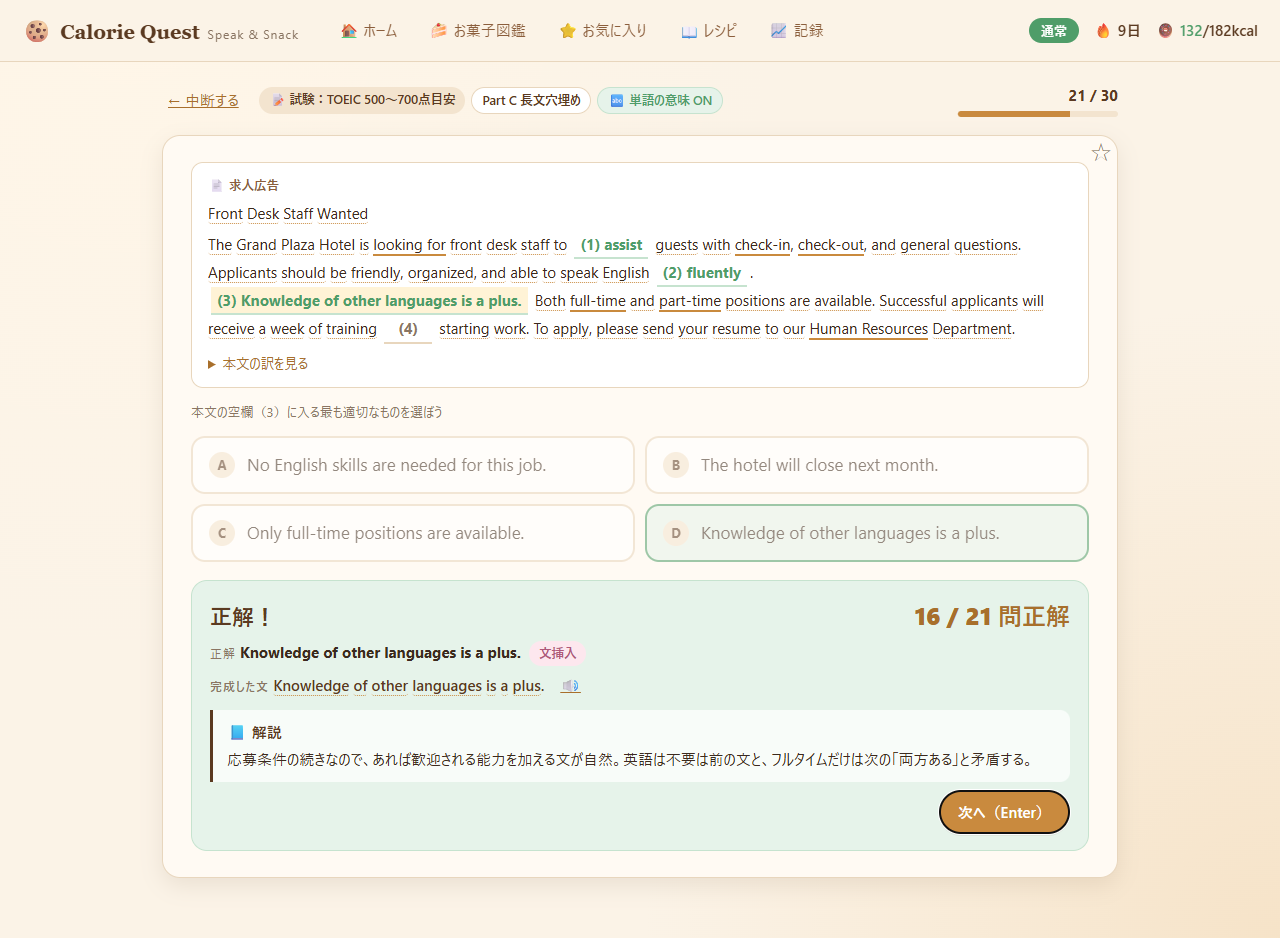
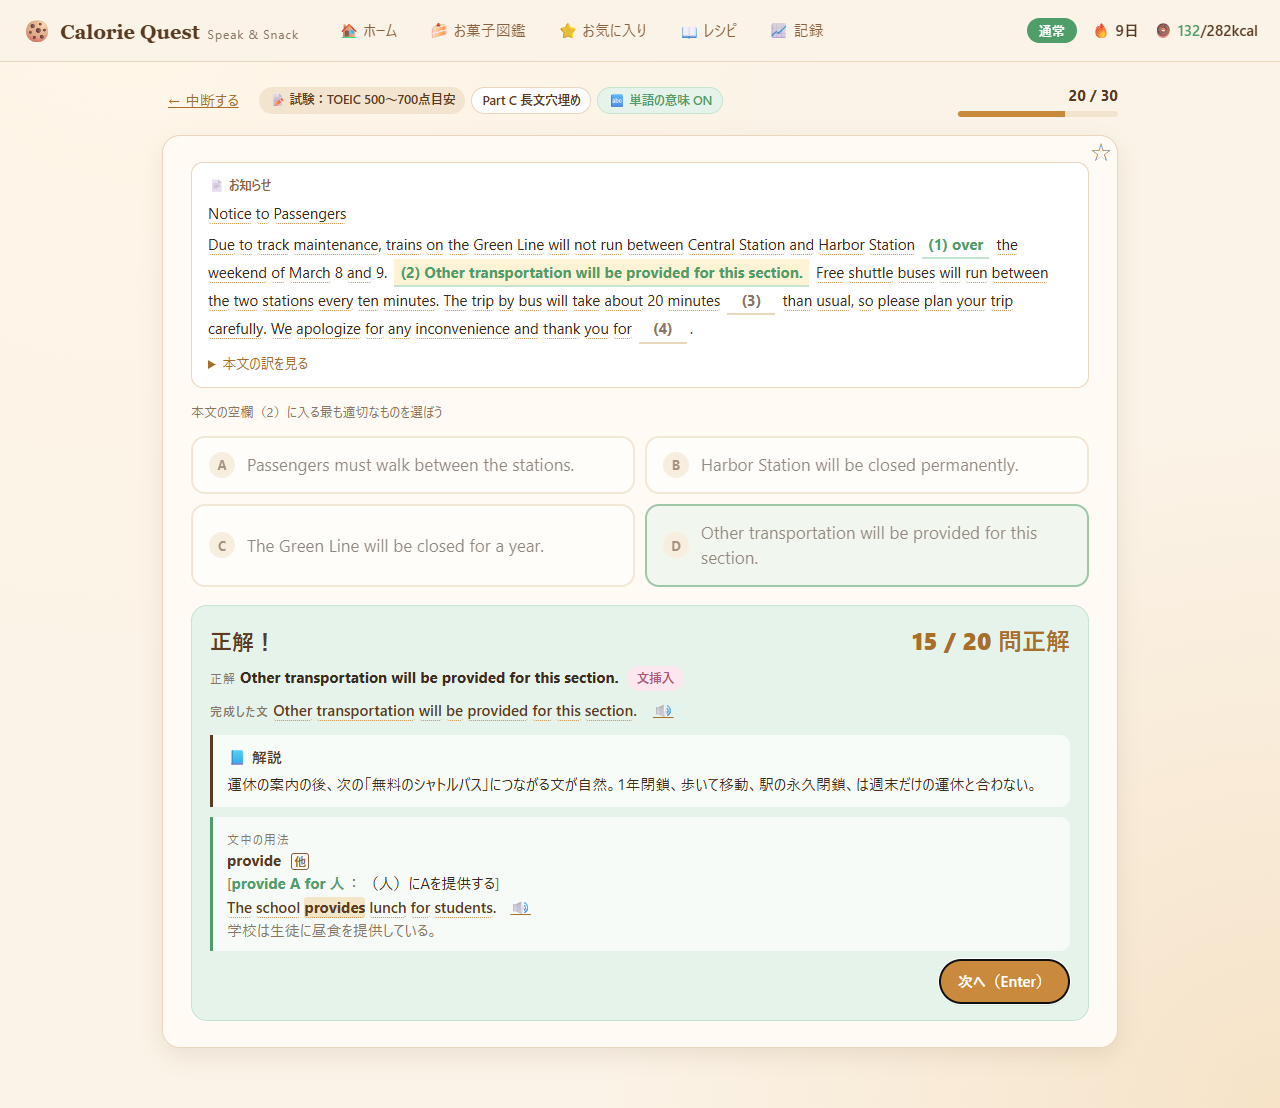
README: screenshots taken again
The snack book shows the day's log with three cookies kept as one row (クッキー 1枚 ×3), opened
into the records one by one; the home's budget follows (279 earned, 150 eaten). The alt texts
follow the questions picked this time (the exam's passage is a notice to passengers, the wrong
options of discuss answer / describe / explain).

diff --git a/README.md b/README.md
@@ -3,7 +3,7 @@
 英語の問題を解くと「今日食べていいお菓子のカロリー」が貯まる、軽量な英語学習ゲームです。
 仕様は [docs/spec.md](docs/spec.md) を参照してください。
 
-![ホーム画面: 右上に遊び方（通常）・連続日数・今日の残り／獲得カロリー（129/179kcal）、今日のおやつ予算（獲得・消費・残りのカロリーと、残りを示すお菓子アイコンのバー）、目標のお菓子（開いた「＋ 目標追加」の1行: 名前「旅先のジェラート」・180 kcal・アイコン・図鑑と目標に追加せず食べるナイフとフォーク・追加。その下に1行ずつの目標（進み具合・あと何問・食べた・削除））、学習をはじめる（分類のタブ、名詞・動詞・形容詞・副詞とジャンルの絞り込み、問題数の付いた4つの出題形式）、試験（3つの難易度と試験の復習）](docs/screenshots/home.png)
+![ホーム画面: 右上に遊び方（通常）・連続日数・今日の残り／獲得カロリー（129/279kcal）、今日のおやつ予算（獲得・消費・残りのカロリーと、残りを示すお菓子アイコンのバー）、目標のお菓子（開いた「＋ 目標追加」の1行: 名前「旅先のジェラート」・180 kcal・アイコン・図鑑と目標に追加せず食べるナイフとフォーク・追加。その下に1行ずつの目標（進み具合・あと何問・食べた・削除））、学習をはじめる（分類のタブ、名詞・動詞・形容詞・副詞とジャンルの絞り込み、問題数の付いた4つの出題形式）、試験（3つの難易度と試験の復習）](docs/screenshots/home.png)
 
 ## 主な機能
 
@@ -18,15 +18,15 @@
 
 | 単語問題の解説（例文・用法・類似表現） | 文法問題の解説と単語の意味 |
 | --- | --- |
-| ![英単語 discuss の選択問題に正解したところ。選択肢はニュアンス付き（（理由・仕組みを）分かるように説明する など）で、間違いの選択肢に緑で英語（explain・say・answer）、例文、用法 [discuss A：about は付けない]、開いた類似表現（discuss と talk の違い）、右上の★（お気に入り）](docs/screenshots/word.png) | ![文法問題に正解したところ。完成した文、形容詞と副詞の使い分けの解説、単語 smiled にカーソルを合わせた意味の表示](docs/screenshots/study.png) |
+| ![英単語 discuss の選択問題に正解したところ。選択肢はニュアンス付き（（理由・仕組みを）分かるように説明する など）で、間違いの選択肢に緑で英語（answer・describe・explain）、例文、用法 [discuss A：about は付けない]、開いた類似表現（discuss と talk の違い）、右上の★（お気に入り）](docs/screenshots/word.png) | ![文法問題に正解したところ。完成した文、形容詞と副詞の使い分けの解説、単語 smiled にカーソルを合わせた意味の表示](docs/screenshots/study.png) |
 
 | 試験（TOEIC形式の長文穴埋め） | 試験の結果 |
 | --- | --- |
-| ![試験（TOEIC 500〜700点目安）の長文穴埋め。求人広告の空欄（1）（2）が埋まり、文挿入（3）の正解と解説](docs/screenshots/exam.png) | ![試験の結果: 30問中25問正解（83%）で合格、おやつ予算 +150 kcal、パートごとの正答数と試験の復習への追加](docs/screenshots/exam-result.png) |
+| ![試験（TOEIC 500〜700点目安）の長文穴埋め。運休のお知らせの空欄（1）が埋まり、文挿入（2）の正解と解説、文中の用法 provide A for 人](docs/screenshots/exam.png) | ![試験の結果: 30問中25問正解（83%）で合格、おやつ予算 +150 kcal、パートごとの正答数と試験の復習への追加](docs/screenshots/exam-result.png) |
 
 | レシピ（単語帳） | お菓子図鑑（家計簿・貯蓄・並び替え） |
 | --- | --- |
-| ![レシピ: 使い方の説明、選択式・記入式・単語カードと「間違いやすい語を優先」。品詞順にまとめた1行ずつの一覧（名詞・動詞・形容詞・副詞・慣用句・用法、習得は緑、★の付いた deadline と reluctant）。各行の右端に ☆／★、「✓ 覚えた」（習得は「復習に戻す」）と ×。類似表現のある語は意味をニュアンスで出す（admit「（事実・誤りを）しぶしぶ認める」、decline「[自] 減少する ／ [他] （丁寧に）断る」）。すべて・★・復習・習得・除外のタブ、検索・並び替え、開いた用法 compare A with B の例文と訳](docs/screenshots/recipe.png) | ![お菓子図鑑: 今日のカロリー家計簿と取り消し、貯蓄の進み具合とお菓子引換券、並び替えできる1行ずつのお菓子の一覧（目標の★、食べた回数、食べた、鉛筆の修正、削除）](docs/screenshots/snacks.png) |
+| ![レシピ: 使い方の説明、選択式・記入式・単語カードと「間違いやすい語を優先」。品詞順にまとめた1行ずつの一覧（名詞・動詞・形容詞・副詞・慣用句・用法、習得は緑、★の付いた deadline と reluctant）。各行の右端に ☆／★、「✓ 覚えた」（習得は「復習に戻す」）と ×。類似表現のある語は意味をニュアンスで出す（admit「（事実・誤りを）しぶしぶ認める」、decline「[自] 減少する ／ [他] （丁寧に）断る」）。すべて・★・復習・習得・除外のタブ、検索・並び替え、開いた用法 compare A with B の例文と訳](docs/screenshots/recipe.png) | ![お菓子図鑑: 今日のカロリー家計簿（同じお菓子をまとめた「クッキー 1枚 ×3 −150 kcal 12:05」の行と、↶ で開いた1つずつの記録と取り消し）、貯蓄の進み具合とお菓子引換券、並び替えできる1行ずつのお菓子の一覧（目標の★、食べた回数、食べた、鉛筆の修正、削除）](docs/screenshots/snacks.png) |
 
 | お気に入り | 記録 |
 | --- | --- |
